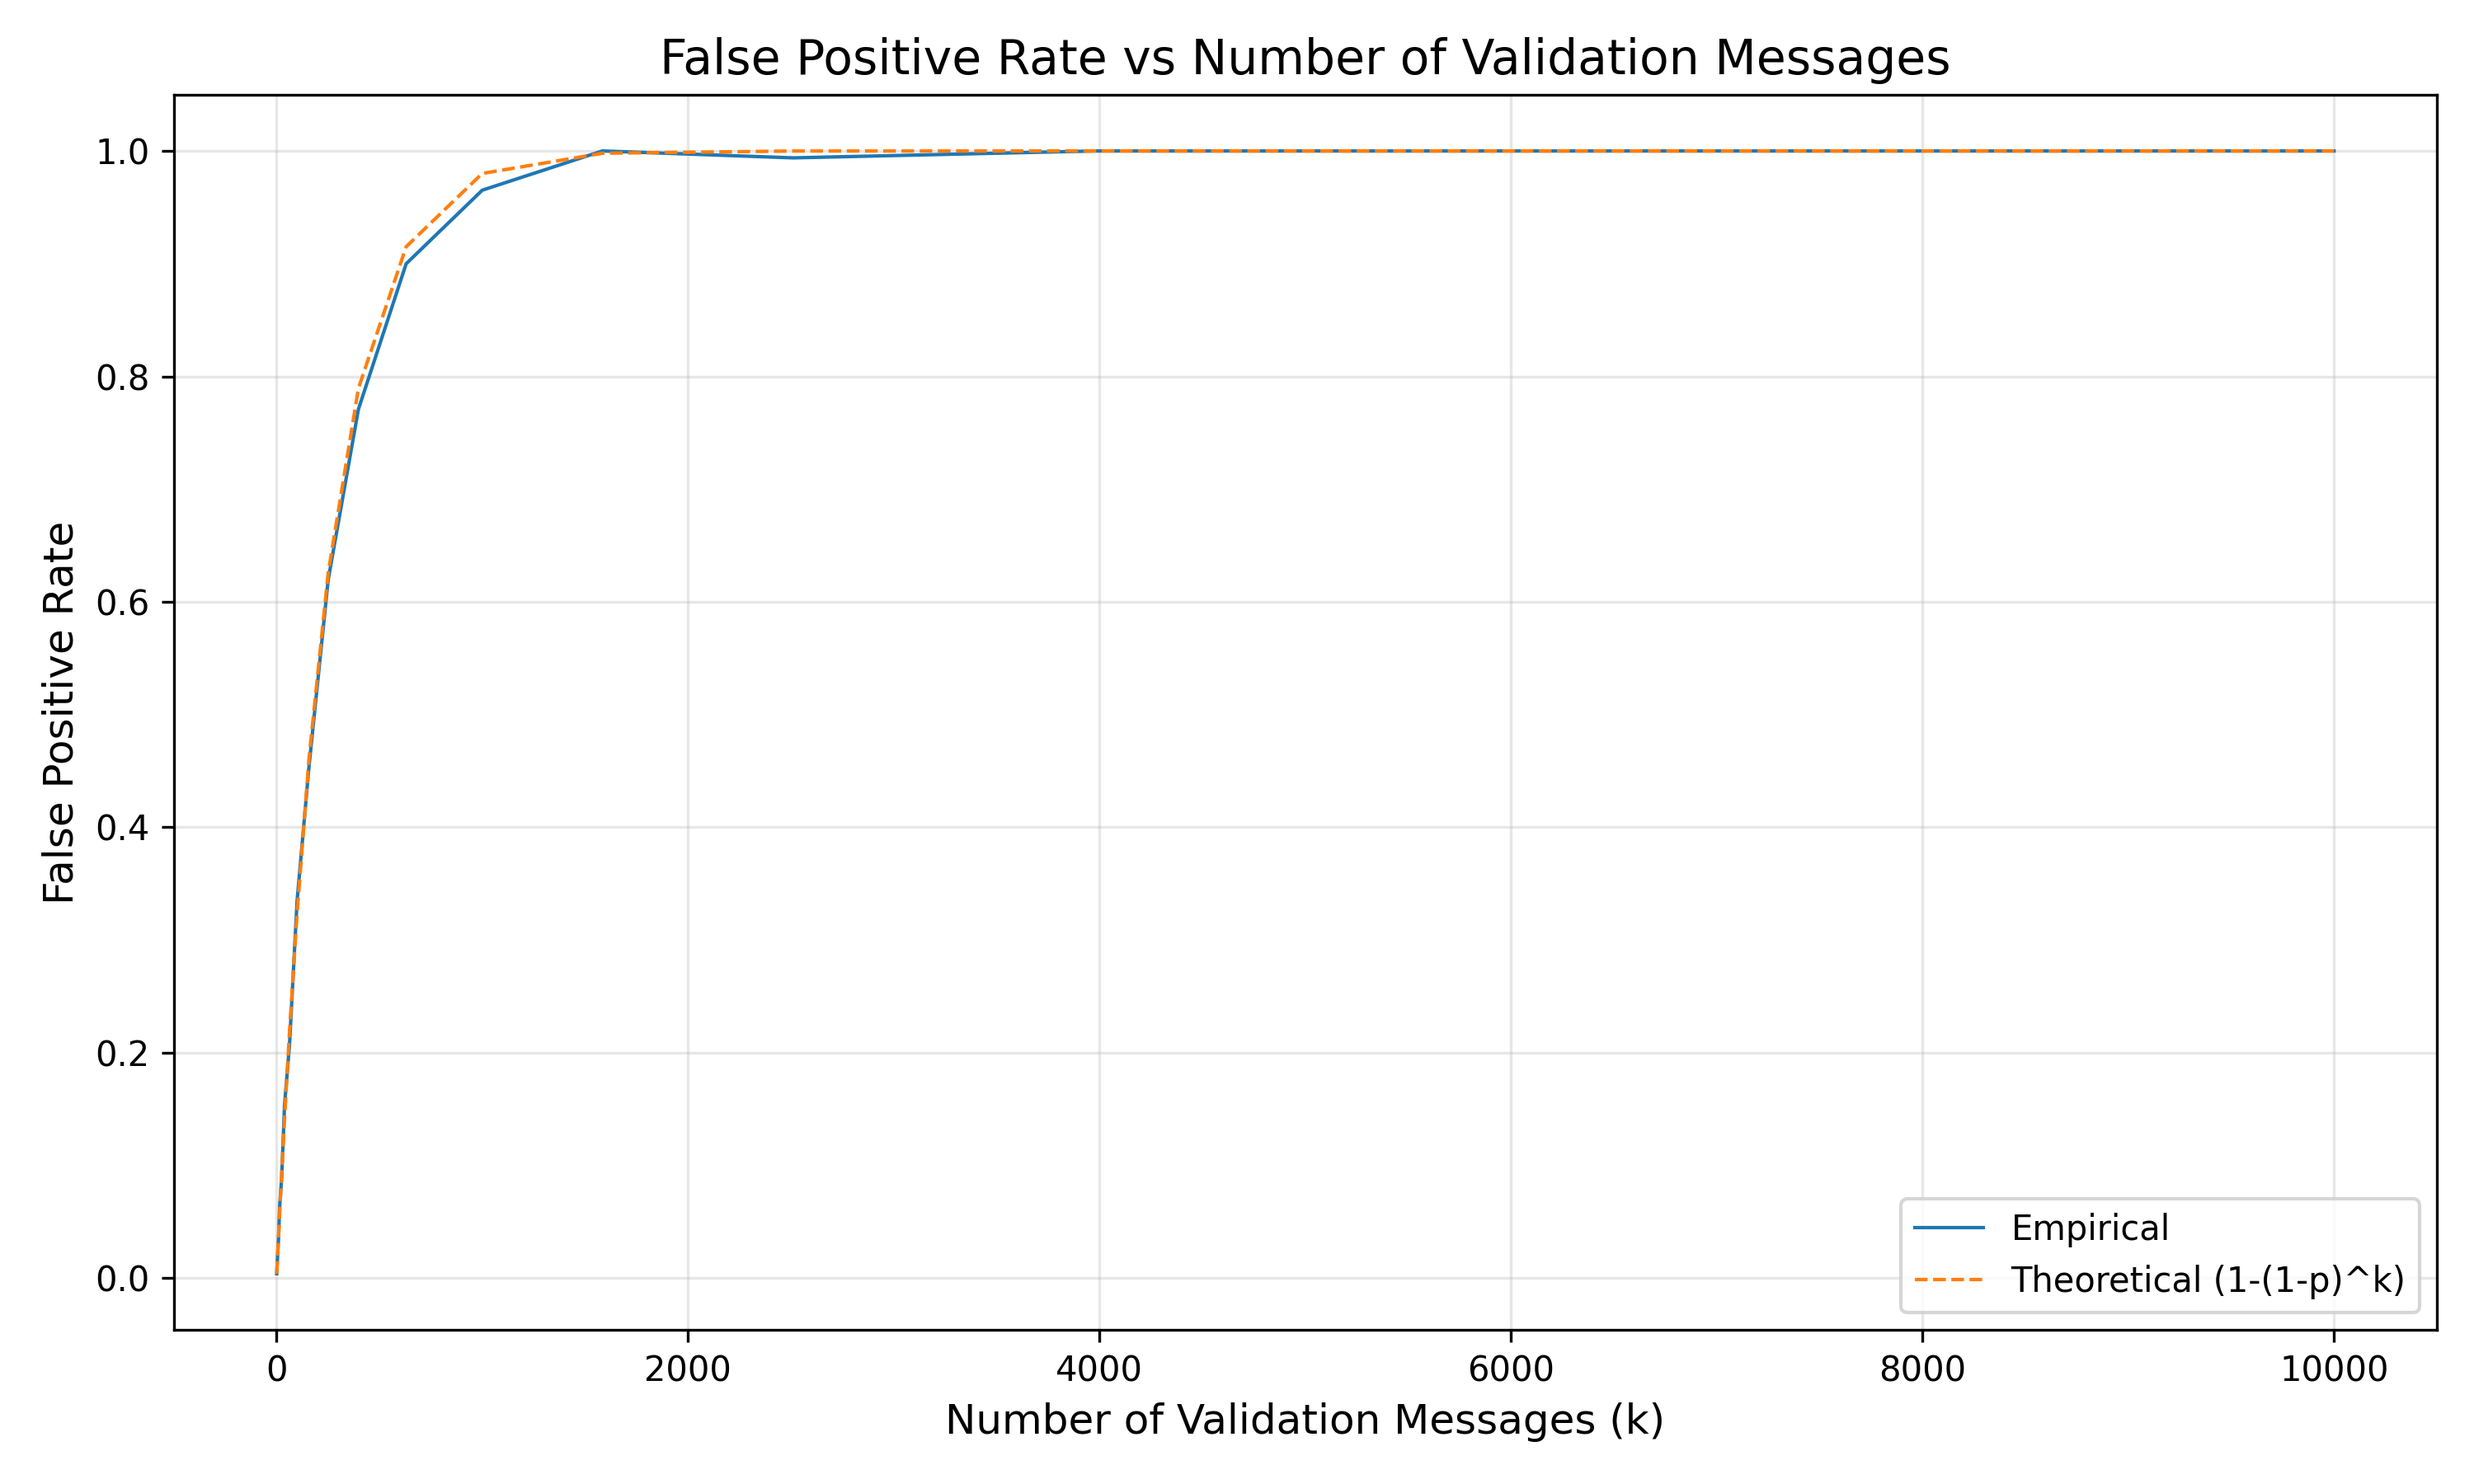
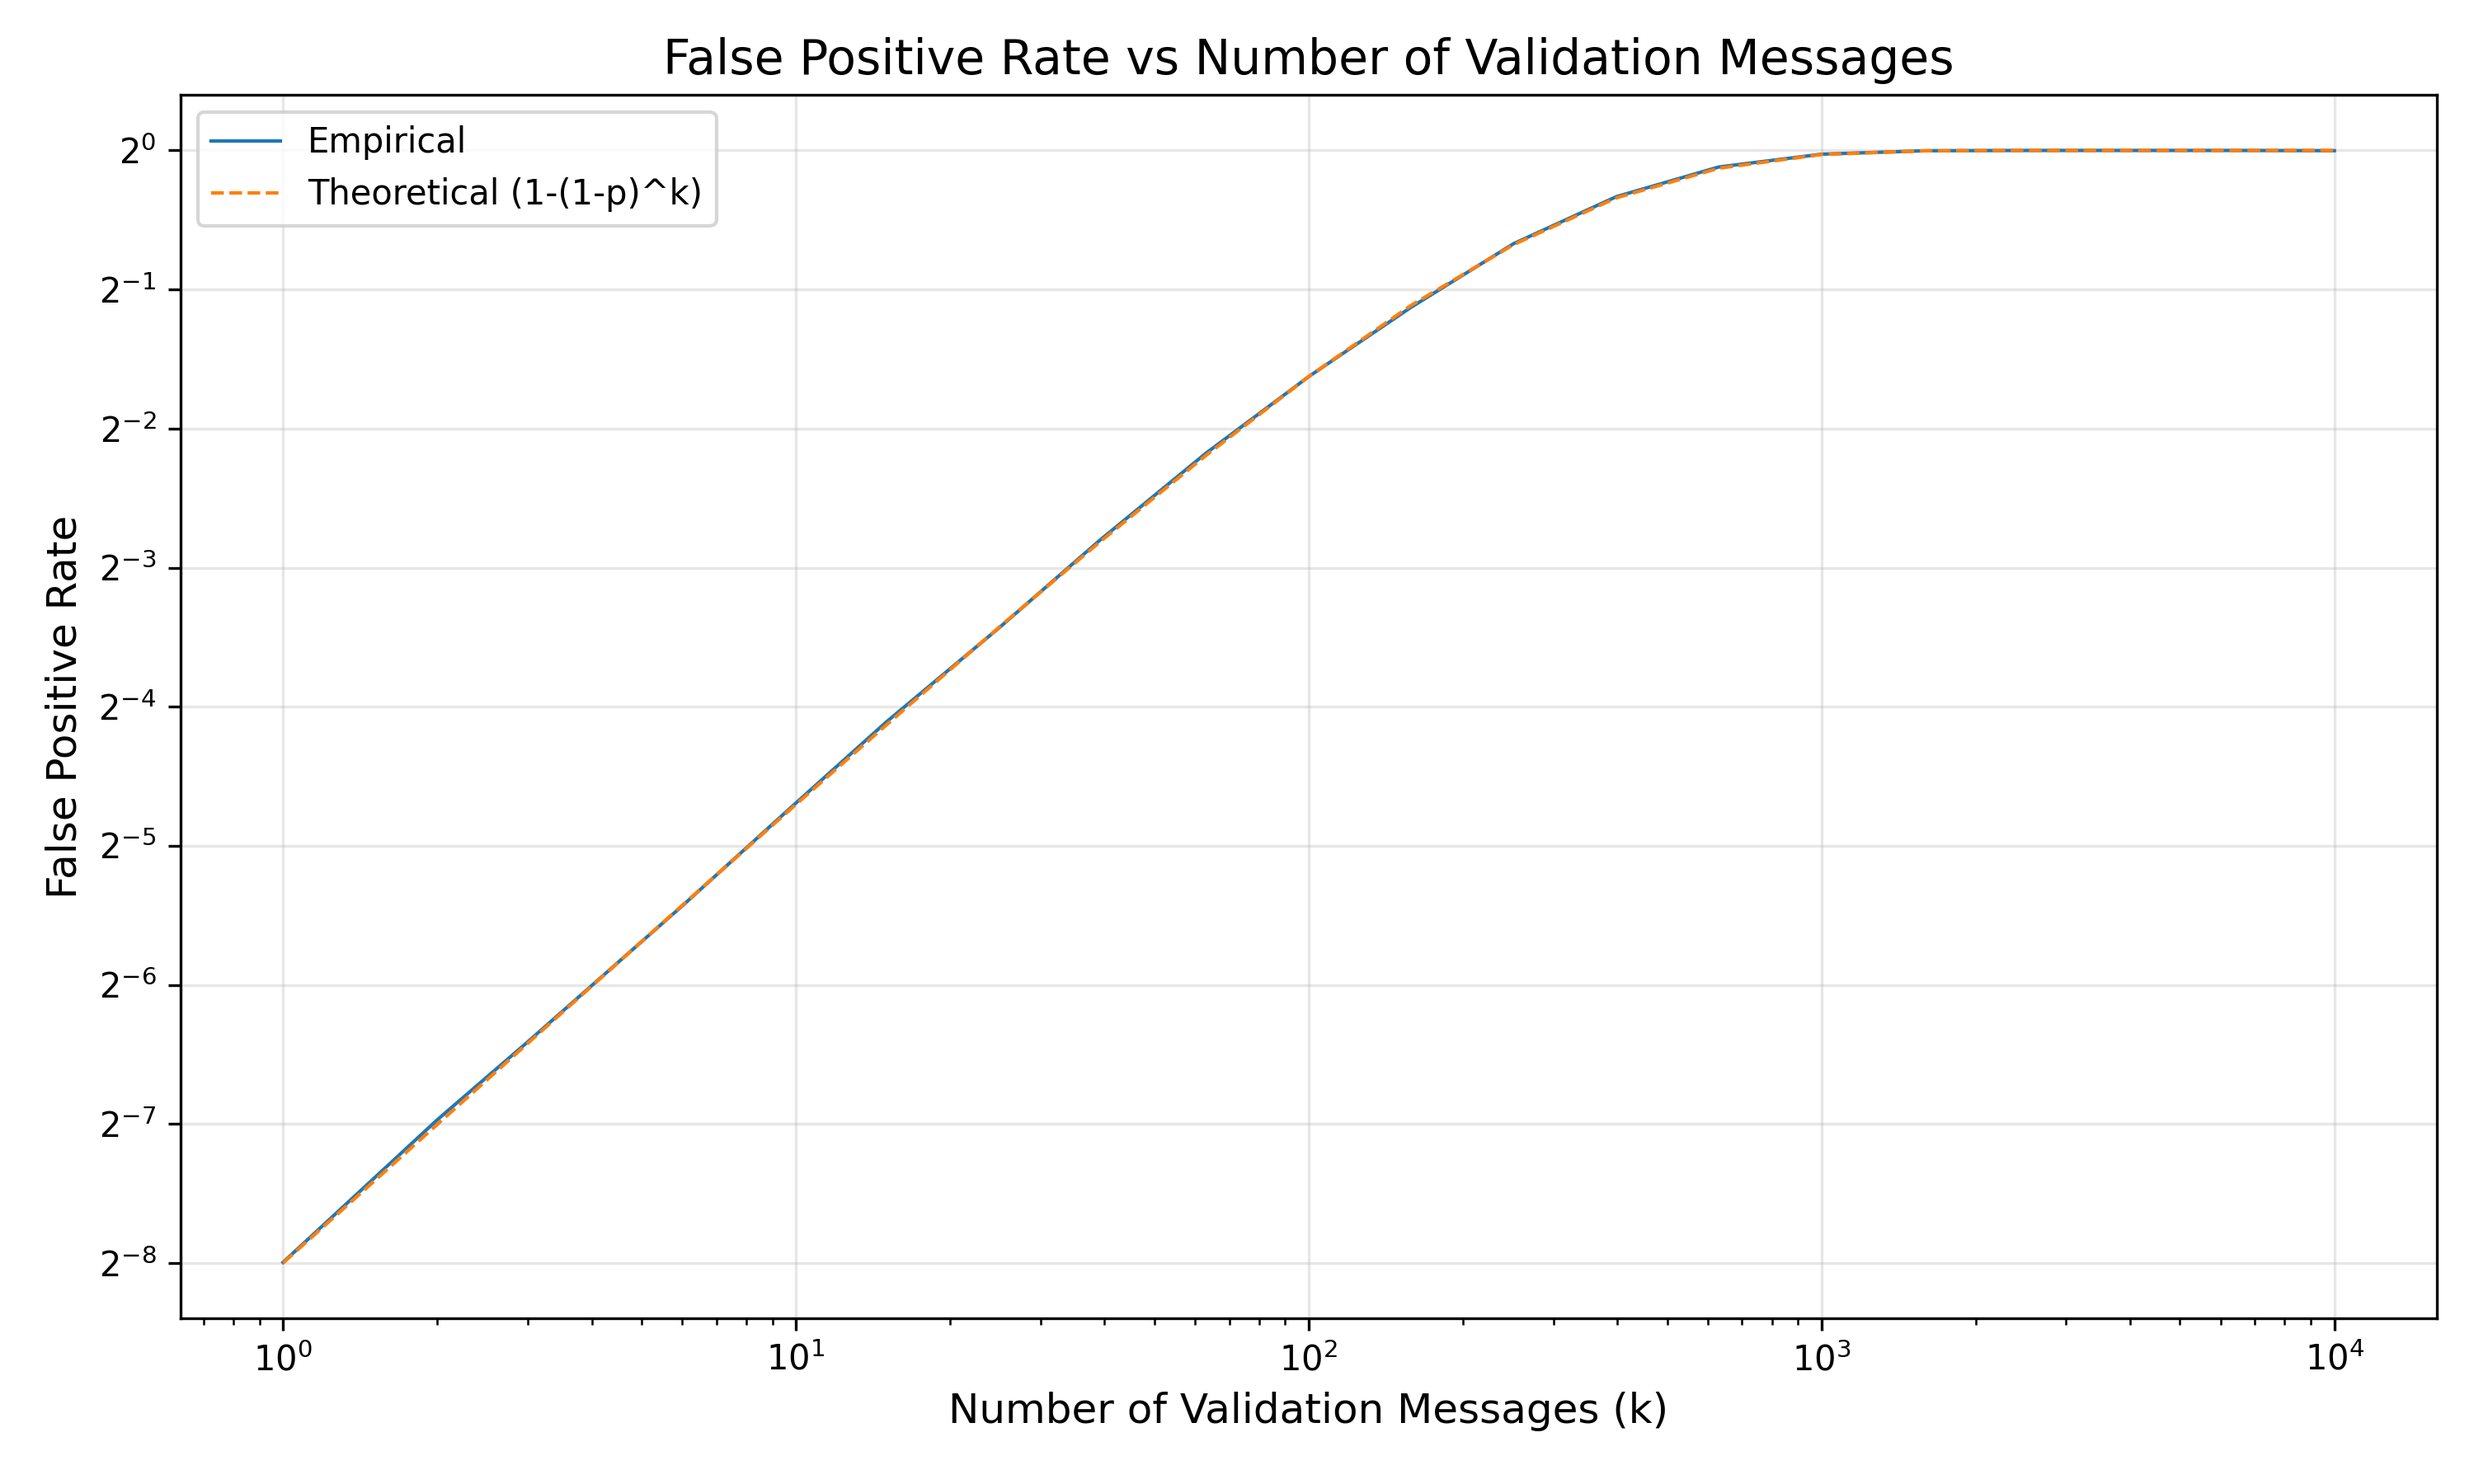
fix: after updated metrics

diff --git a/analyses/multi_tag_multi_message/multi_tag_multi_message.py b/analyses/multi_tag_multi_message/multi_tag_multi_message.py
@@ -33,7 +33,7 @@ def main():
     
     # Base parameters
     vec_len = 4
-    num_messages = 10**5  # Use fewer messages for faster runs
+    num_messages = 10**6  # Use fewer messages for faster runs
     base_rate = 2**(-8)   # Theoretical base rate for GF(2^8)
     trials = 1  # Number of trials for empirical evaluation with small num_messages
     n_id = 2**(vec_len)  # Number of possible IDs for GF(2^8) with vec_len in bytes
@@ -58,8 +58,7 @@ def main():
             system=system,
             vec_len=vec_len,
             num_messages=num_messages,
-            num_validation_messages=k,
-            show_progress=False
+            num_validation_messages=k
         )
         
         empirical = results['false_positive_rate']
@@ -77,6 +76,8 @@ def main():
     plt.title("False Positive Rate vs Number of Validation Messages", fontsize=14)
     plt.xlabel("Number of Validation Messages (k)", fontsize=12)
     plt.ylabel("False Positive Rate", fontsize=12)
+    plt.xscale('log', base=10)
+    plt.yscale('log', base=2)
     plt.grid(True, alpha=0.3)
     plt.legend()
     plt.tight_layout()
@@ -125,7 +126,7 @@ def main():
     print("-" * 80)
     
     combined_results = []
-    num_messages = 10**8
+    num_messages = 10**6
     ks = [100, 500, 1000]  # k values for combined analysis
     
     for tag_pos in [[2], [2, 3], [2, 3, 4]]:
@@ -167,7 +168,7 @@ def main():
         plt.grid(True, alpha=0.3)
         plt.legend()
         plt.tight_layout()
-        plt.savefig(f"analyses/multi_tag_multi_message/combined_analysis_{result['tags']}.png", dpi=300)
+        # plt.savefig(f"analyses/multi_tag_multi_message/combined_analysis_{result['tags']}.png", dpi=300)
     plt.show()
 
     print("\nAnalysis complete! Results saved in analyses/multi_tag_multi_message/")

diff --git a/framework/core.py b/framework/core.py
@@ -474,17 +474,8 @@ def generate_structured_messages(
             else:
                 vec_len_ = vec_len
             
-            # For random mode, seed the PRNG for each message
-            Id.set_seed(effective_attempt) if hasattr(Id, 'set_seed') else None
-            msg = Id.generate_string_sequence(vec_len_)
-            
-            # Add some process-specific randomization
-            if worker_offset > 0:
-                # Randomly perturb some elements to ensure uniqueness across processes
-                num_changes = max(1, int(vec_len_ * 0.1))  # Change ~10% of elements
-                for _ in range(num_changes):
-                    pos = process_random.randint(0, len(msg)-1)
-                    msg[pos] = process_random.randint(0, 2**gf_exp-1)
+            msg = Id.generate_string_sequence(vec_len_)           
+
             return msg
             
         elif pattern_type == "incremental":
